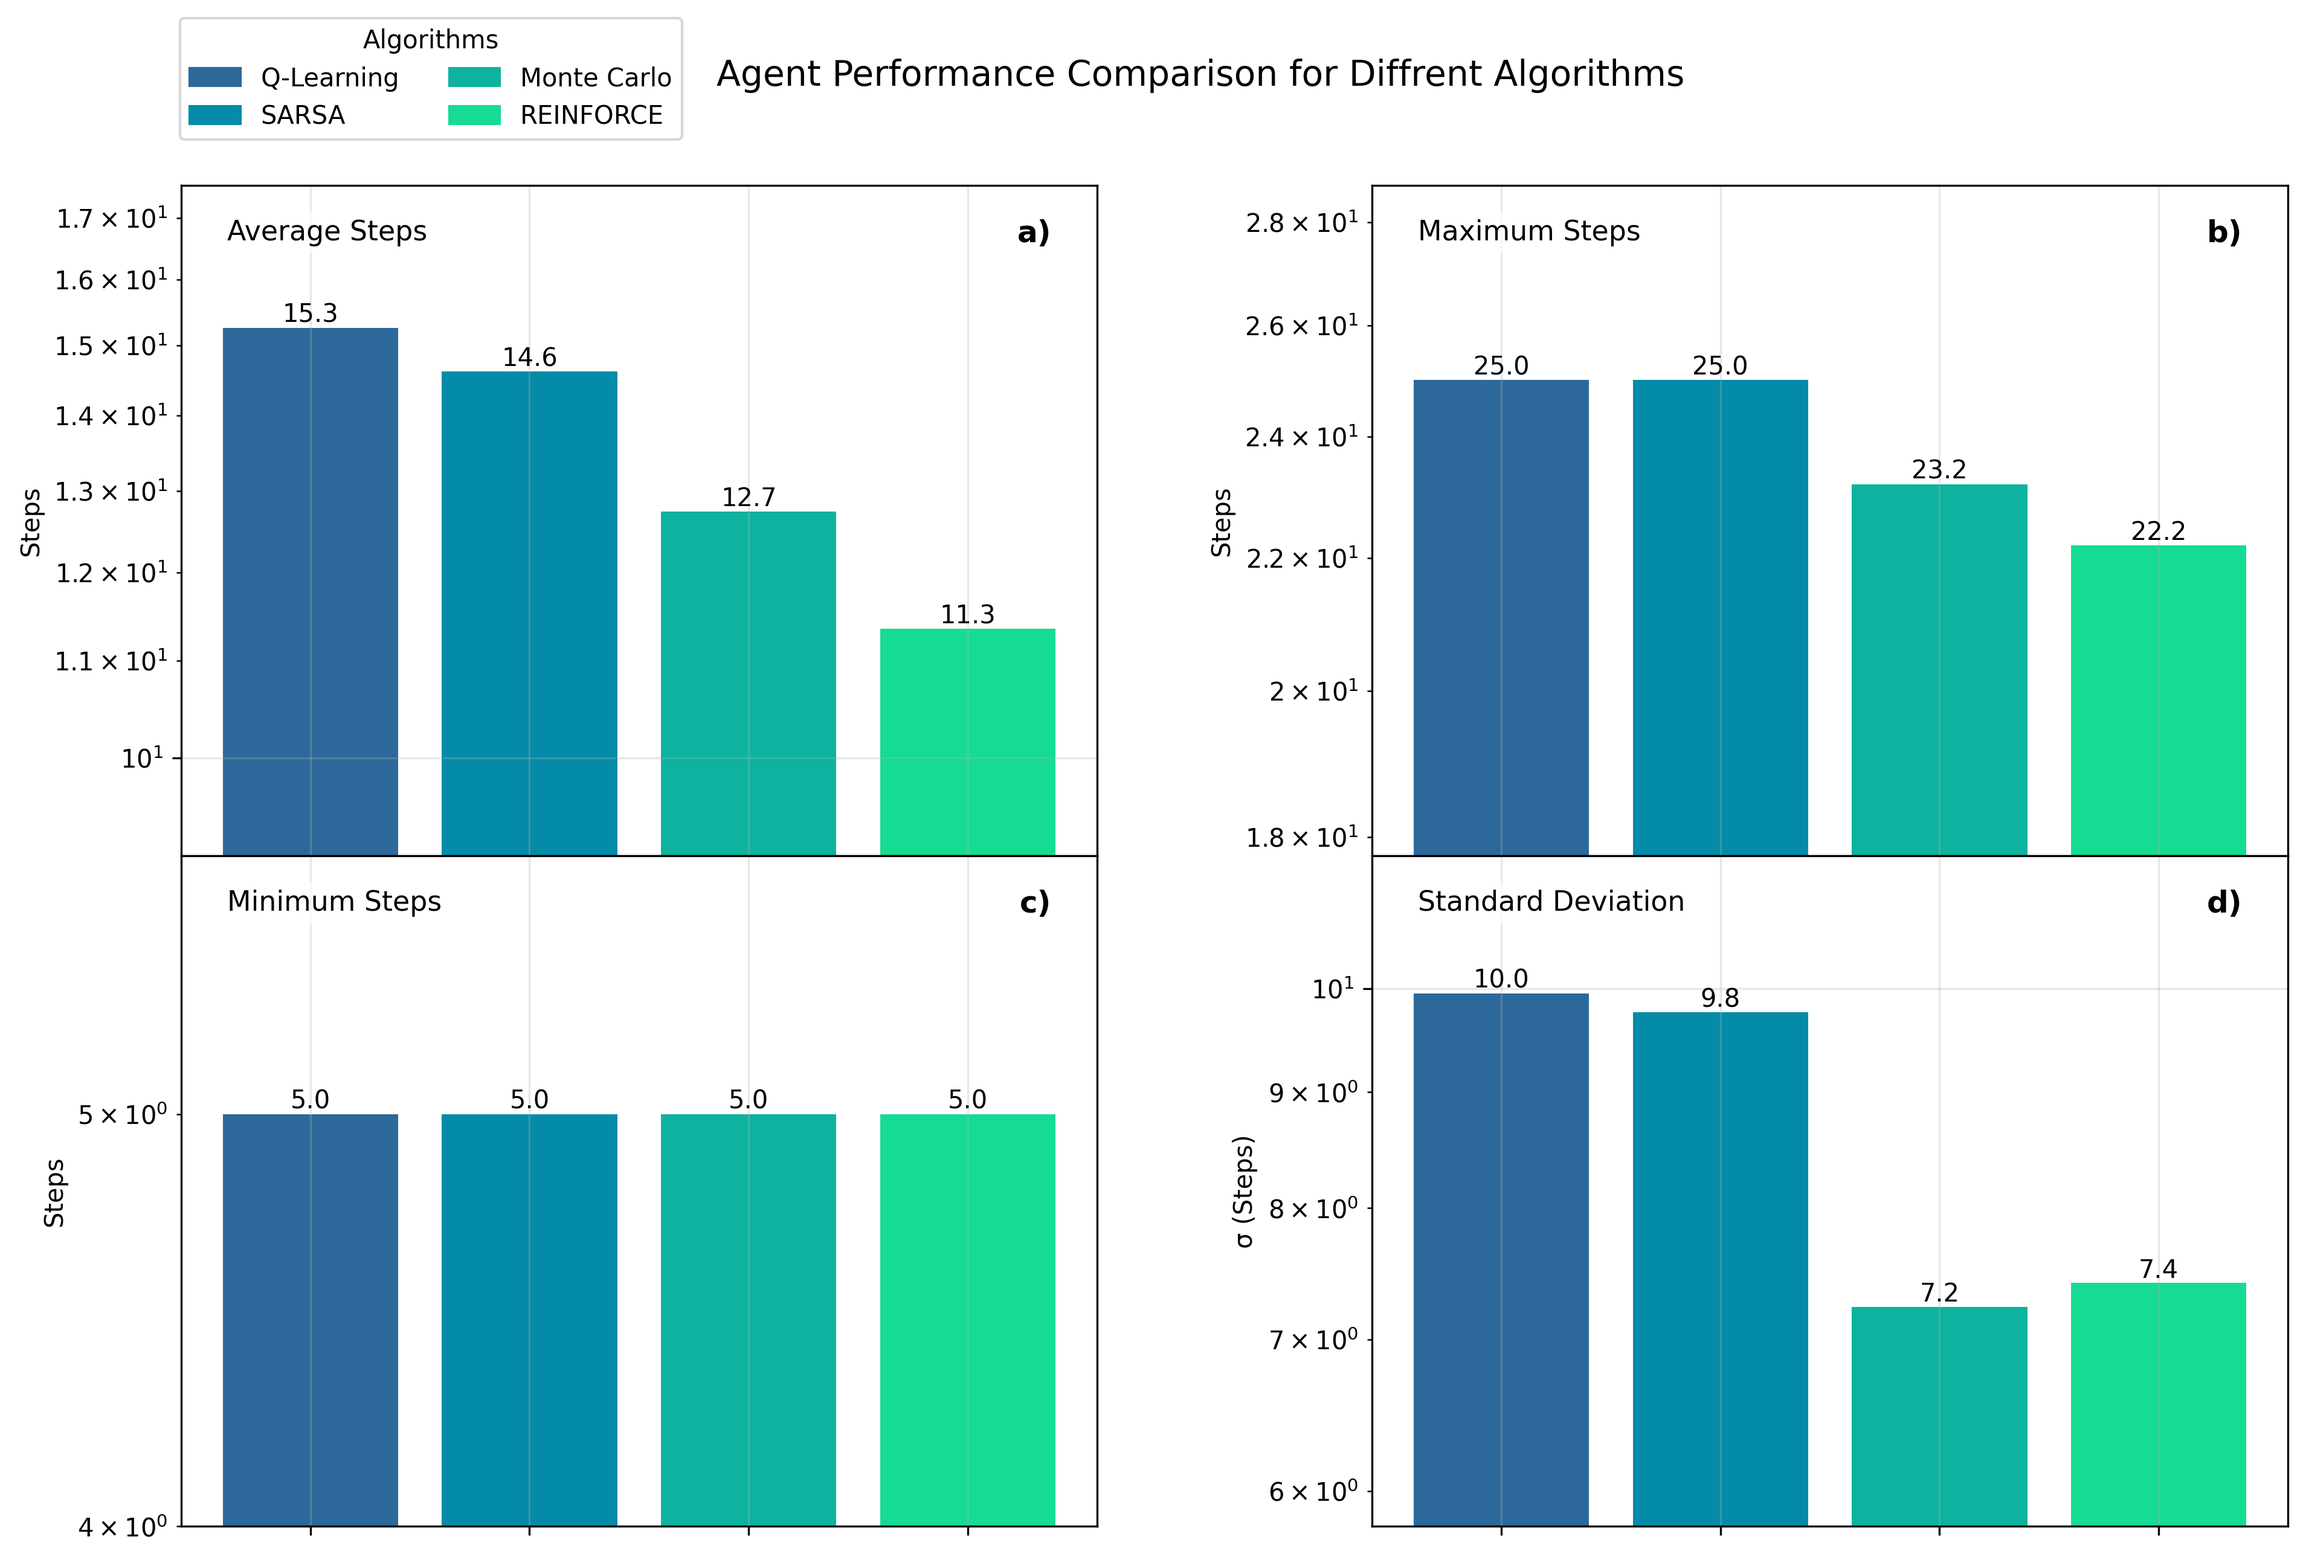
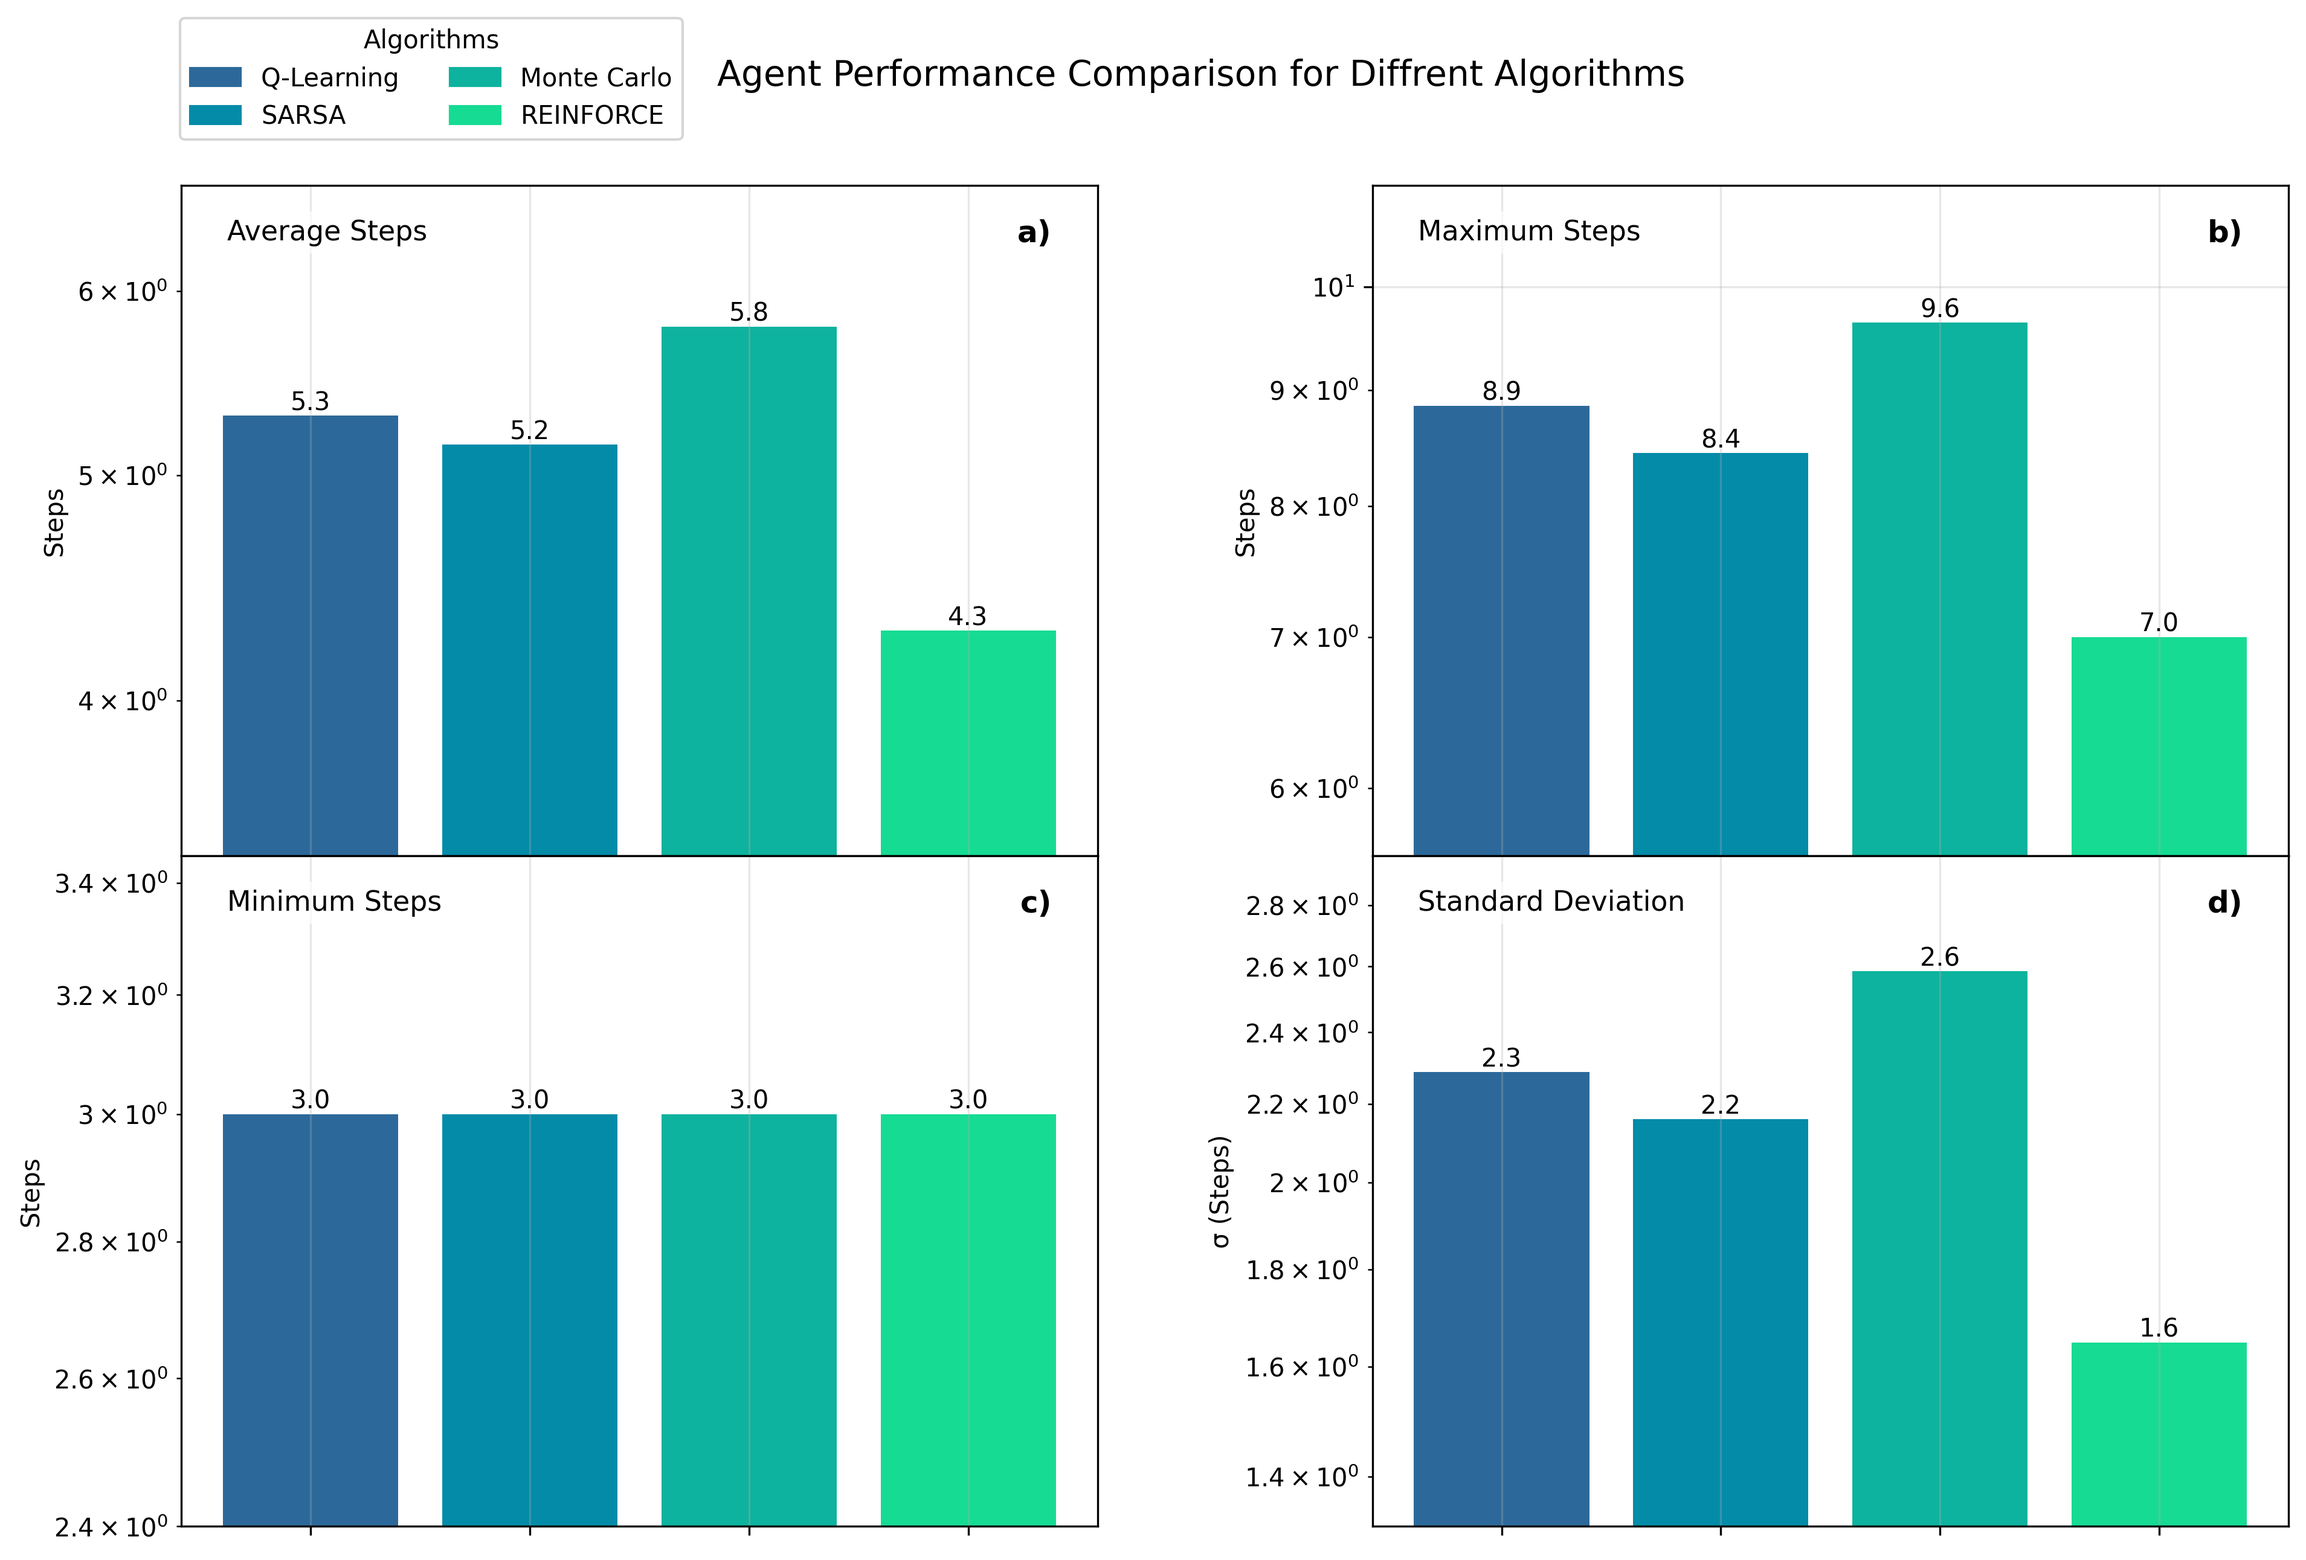
Extend plotting. Add additional plotting specific parameters.

diff --git a/pong/plot.py b/pong/plot.py
@@ -1,0 +1,233 @@
+import os
+import numpy as np
+import matplotlib.pyplot as plt
+from typing import Dict, List
+
+def create_combined_plot(training_results: Dict[str, List[int]], 
+                        test_results: Dict[str, Dict[str, float]], 
+                        save_plots: bool = False):
+    """
+    Create a combined plot with learning curves and performance metrics.
+    
+    Parameters
+    ----------
+    training_results: Dictionary containing training steps for each algorithm
+    test_results: Dictionary containing test metrics for each algorithm
+    save_plots: Whether to save the plots to files
+    """
+    # Common settings
+    algo_colors = {
+        'Q': '#2C699A',  # Deep blue
+        'S': '#048BA8',  # Teal
+        'M': '#0DB39E',  # Turquoise
+        'R': '#16DB93'   # Mint green
+    }
+    
+    algo_names = {
+        'Q': 'Q-Learning',
+        'S': 'SARSA',
+        'M': 'Monte Carlo',
+        'R': 'REINFORCE'
+    }
+
+    # Create figure with custom layout
+    fig = plt.figure(figsize=(15, 15))
+    gs = fig.add_gridspec(3, 2, height_ratios=[1, 1, 1])
+    
+    # Learning curves plot (spans both columns in first row)
+    ax_learning = fig.add_subplot(gs[0, :])
+    window_size = 50
+    
+    # Plot learning curves
+    for algo, total_steps in training_results.items():
+        moving_avg = [
+            np.mean(total_steps[max(0, i-window_size):i])
+            for i in range(1, len(total_steps)+1)
+        ]
+        ax_learning.plot(moving_avg, 
+                        label=algo_names[algo],
+                        color=algo_colors[algo],
+                        linewidth=2)
+    
+    ax_learning.set_yscale('log')
+    ax_learning.set_xlabel('Episode')
+    ax_learning.set_ylabel('Steps per Episode')
+    ax_learning.grid(True, alpha=0.3)
+    
+    # Add title text with semi-transparent background (same style as other plots)
+    ax_learning.text(0.05, 0.95, 'Learning Rate - Moving Average of Episode Length',
+                    transform=ax_learning.transAxes,
+                    fontsize=11,
+                    fontweight='medium',
+                    ha='left',
+                    va='top',
+                    bbox=dict(
+                        facecolor='white',
+                        alpha=0.7,
+                        edgecolor='none',
+                        pad=3.0
+                    ))
+    
+    # Move legend to bottom right
+    ax_learning.legend(loc='lower right',
+                      bbox_to_anchor=(0.95, 0.05),
+                      title='Algorithms')
+    
+    # Add plot identifier 'a)' to learning curves plot
+    ax_learning.text(0.95, 0.95, 'a)', 
+                    transform=ax_learning.transAxes,
+                    fontsize=12,
+                    fontweight='bold',
+                    ha='right',
+                    va='top',
+                    bbox=dict(
+                        facecolor='white',
+                        alpha=0.7,
+                        edgecolor='none',
+                        pad=3.0
+                    ))
+    
+    # Performance metrics plots (2x2 grid in bottom two rows)
+    metrics = ['avg_steps', 'max_steps', 'min_steps', 'std_steps']
+    metric_labels = ['Average Steps', 'Maximum Steps', 'Minimum Steps', 'Standard Deviation']
+    plot_ids = ['b)', 'c)', 'd)', 'e)']
+    
+    axes = [[None, None], [None, None]]
+    axes[0][0] = fig.add_subplot(gs[1, 0])
+    axes[0][1] = fig.add_subplot(gs[1, 1])
+    axes[1][0] = fig.add_subplot(gs[2, 0], sharex=axes[0][0])
+    axes[1][1] = fig.add_subplot(gs[2, 1], sharex=axes[0][1])
+    
+    algorithms = list(test_results.keys())
+    algo_labels = [algo_names[algo] for algo in algorithms]
+    
+    for idx, (metric, label, plot_id) in enumerate(zip(metrics, metric_labels, plot_ids)):
+        row, col = idx // 2, idx % 2
+        ax = axes[row][col]
+        ax.set_yscale('log')
+        
+        values = [test_results[algo][metric] for algo in algorithms]
+        colors = [algo_colors[algo] for algo in algorithms]
+        
+        bars = ax.bar(algo_labels, values, color=colors)
+        
+        # Calculate dynamic y-axis limits
+        max_value = max(values)
+        min_value = min(values)
+        ax.set_ylim(min_value * 0.8, max_value * 1.15)
+        
+        # Add title text with semi-transparent background
+        ax.text(0.05, 0.95, label,
+                transform=ax.transAxes,
+                fontsize=11,
+                fontweight='medium',
+                ha='left',
+                va='top',
+                bbox=dict(
+                    facecolor='white',
+                    alpha=0.7,
+                    edgecolor='none',
+                    pad=3.0
+                ))
+        
+        # Add plot identifier in top right corner
+        ax.text(0.95, 0.95, plot_id, 
+                transform=ax.transAxes,
+                fontsize=12,
+                fontweight='bold',
+                ha='right',
+                va='top',
+                bbox=dict(
+                    facecolor='white',
+                    alpha=0.7,
+                    edgecolor='none',
+                    pad=3.0
+                ))
+        
+        if metric == 'std_steps':
+            ax.set_ylabel('σ (Steps)')
+        else:
+            ax.set_ylabel('Steps')
+        
+        ax.grid(True, alpha=0.3)
+        
+        if row < 1:
+            ax.set_xticklabels([])
+        else:
+            ax.tick_params(axis='x', rotation=45)
+        
+        for bar in bars:
+            height = bar.get_height()
+            if height >= 1000:
+                label = f'{height:.1e}'
+            else:
+                label = f'{height:.1f}'
+            ax.text(bar.get_x() + bar.get_width()/2., height,
+                   label,
+                   ha='center', va='bottom')
+    
+    plt.tight_layout()
+    
+    if save_plots:
+        output_dir = 'output'
+        if not os.path.exists(output_dir):
+            os.makedirs(output_dir)
+        plt.savefig(os.path.join(output_dir, 'combined_analysis.png'), 
+                   bbox_inches='tight', 
+                   dpi=300)
+    
+    plt.show() 
+
+def create_latex_table(test_results: Dict[str, Dict[str, float]], save_path: str = 'output/results_table.tex'):
+    """
+    Create a LaTeX table from test results.
+    
+    Parameters
+    ----------
+    test_results: Dictionary containing test metrics for each algorithm
+    save_path: Path where to save the LaTeX table
+    """
+    # Algorithm names mapping
+    algo_names = {
+        'Q': 'Q-Learning',
+        'S': 'SARSA',
+        'M': 'Monte Carlo',
+        'R': 'REINFORCE'
+    }
+    
+    # Create table header
+    latex_table = [
+        "\\begin{table}[h]",
+        "\\centering",
+        "\\begin{tabular}{l|rrrr}",
+        "\\hline",
+        "Algorithm & Min Steps & Max Steps & Avg Steps & $\\sigma$ Steps \\\\",
+        "\\hline"
+    ]
+    
+    # Add rows for each algorithm
+    for algo in test_results.keys():
+        row = (
+            f"{algo_names[algo]} & "
+            f"{test_results[algo]['min_steps']:.2f} & "
+            f"{test_results[algo]['max_steps']:.2f} & "
+            f"{test_results[algo]['avg_steps']:.2f} & "
+            f"{test_results[algo]['std_steps']:.2f} \\\\"
+        )
+        latex_table.append(row)
+    
+    # Add table footer
+    latex_table.extend([
+        "\\hline",
+        "\\end{tabular}",
+        "\\caption{Performance Comparison of Different Algorithms}",
+        "\\label{tab:algorithm_comparison}",
+        "\\end{table}"
+    ])
+    
+    # Create output directory if it doesn't exist
+    os.makedirs(os.path.dirname(save_path), exist_ok=True)
+    
+    # Write to file
+    with open(save_path, 'w') as f:
+        f.write('\n'.join(latex_table)) 

diff --git a/pong/trainer.py b/pong/trainer.py
@@ -111,9 +111,8 @@ class Trainer:
         plt.show()
 
 
-    def plot_combined_learning_curve(self, steps: Dict[str, List[int]], save_plots:bool = False):
+    def plot_combined_learning_curve(self, steps: Dict[str, List[int]], save_plots:bool = False, window_size:int = 50, show_title:bool = False, show_legend:bool = False, show_xlabel:bool = False, show_ylabel:bool = False):
         """Plot combined learning curves for all algorithms."""
-        window_size = 50  # Moving average window size
         
         # Use same color scheme as in play.py
         algo_colors = {
@@ -131,12 +130,35 @@ class Trainer:
             'R': 'REINFORCE'
         }
 
-        plt.figure(figsize=(10, 6))
-        plt.yscale('log')
-        plt.xlabel('Episode')
-        plt.ylabel('Steps per Episode')
-        plt.title('Learning Curves - Moving Average of Episode Length')
+        fig = plt.figure(figsize=(10, 6))
+        ax = plt.gca()
         plt.grid(True, alpha=0.3)
+        plt.yscale('log')
+
+        if show_xlabel:
+            plt.xlabel('Episode', fontsize=16)
+
+        if show_ylabel:
+            plt.ylabel('Steps per Episode', fontsize=16)
+        
+        if show_title:
+            plt.title('Learning Curves - Moving Average of Episode Length', fontsize=16)
+    
+
+        # Set consistent font sizes for both axes
+        ax.tick_params(axis='both', which='major', labelsize=14)
+        ax.tick_params(axis='both', which='minor', labelsize=14)
+        
+        # Add more space for y-axis labels
+        ax.yaxis.set_tick_params(pad=10)
+        
+        # Format y-axis tick labels to be more readable
+        ax.yaxis.set_major_formatter(plt.ScalarFormatter())
+        ax.yaxis.get_major_formatter().set_scientific(False)
+        ax.yaxis.set_tick_params(labelsize=14)  # Explicitly set y-axis font size
+        
+        # Adjust y-axis to avoid overlapping
+        plt.subplots_adjust(left=0.15)  # Make more space for y-axis labels
 
         for algo, total_steps in steps.items():
             # Calculate moving average
@@ -150,7 +172,9 @@ class Trainer:
                     color=algo_colors[algo],
                     linewidth=2)
 
-        plt.legend(loc='upper right')
+        if show_legend:
+            plt.legend(loc='upper left', fontsize=12)
+        
         plt.tight_layout()
 
         # Create output directory if it doesn't exist

diff --git a/pong/main.py b/pong/main.py
@@ -3,6 +3,7 @@ import numpy as np
 from pong.play import Play
 from typing import Dict, List
 from pong.trainer import Trainer
+from pong.plot import create_combined_plot, create_latex_table
 
 def average_test_results(test_results: List[Dict[str, Dict[str, float]]]) -> Dict[str, Dict[str, float]]:
     """Average test results across all simulations for each algorithm."""
@@ -123,11 +124,31 @@ if (num_sims > 0):
     if render_testing_results:
         print(f"\nAveraged results over {num_sims} simulations:")
         player.print_results(avg_test_results)
-        player.plot_results(results=avg_test_results,save_plots=params["SAVE_PLOTS"])
+        # create_combined_plot(
+        #     training_results=avg_training_results,
+        #     test_results=avg_test_results,
+        #     save_plots=params["SAVE_PLOTS"]
+        # )
+        create_latex_table(avg_test_results)
     
     # Plot averaged learning curves
     if training_plot:
-        trainer.plot_combined_learning_curve(steps=avg_training_results, save_plots=params["SAVE_PLOTS"])
+        trainer.plot_combined_learning_curve(
+            steps=avg_training_results, 
+            save_plots=params["SAVE_PLOTS"],
+            show_title=params["SHOW_TITLE"],
+            show_legend=params["SHOW_LEGEND"],
+            show_xlabel=params["SHOW_XLABEL"],
+            show_ylabel=params["SHOW_YLABEL"],
+            window_size=params["WINDOW_SIZE"]
+        )
+
+    # if training_plot or render_testing_results:
+    #     create_combined_plot(
+    #         training_results=avg_training_results,
+    #         test_results=avg_test_results,
+    #         save_plots=params["SAVE_PLOTS"]
+    #     )
 
 # Single simulation
 else:
